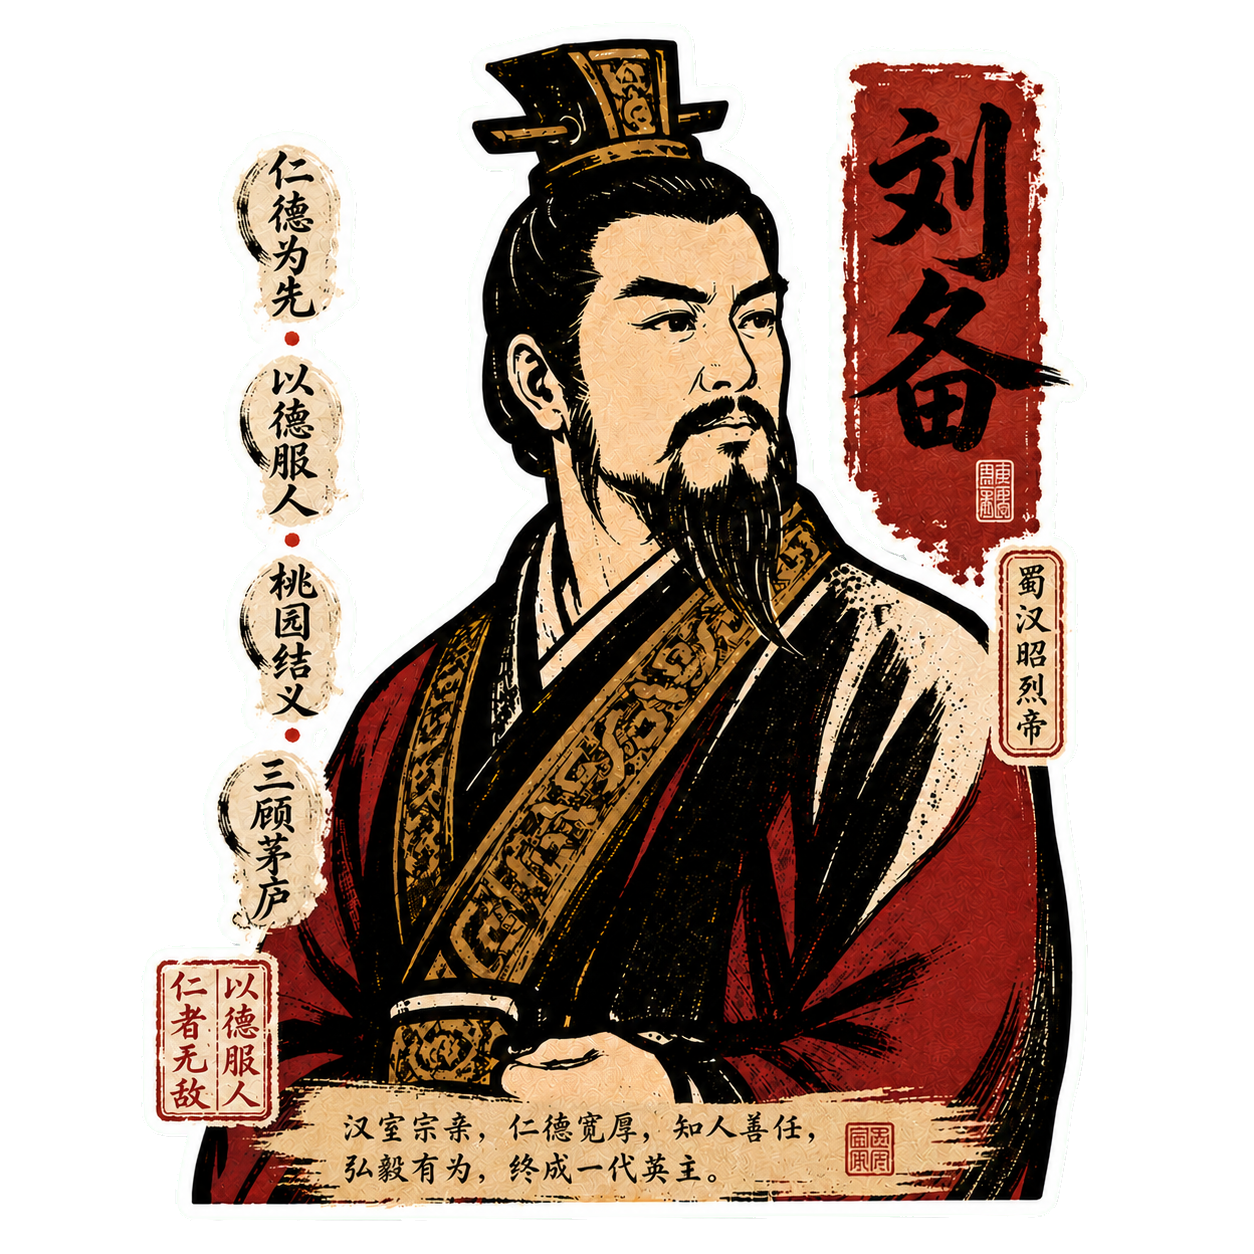
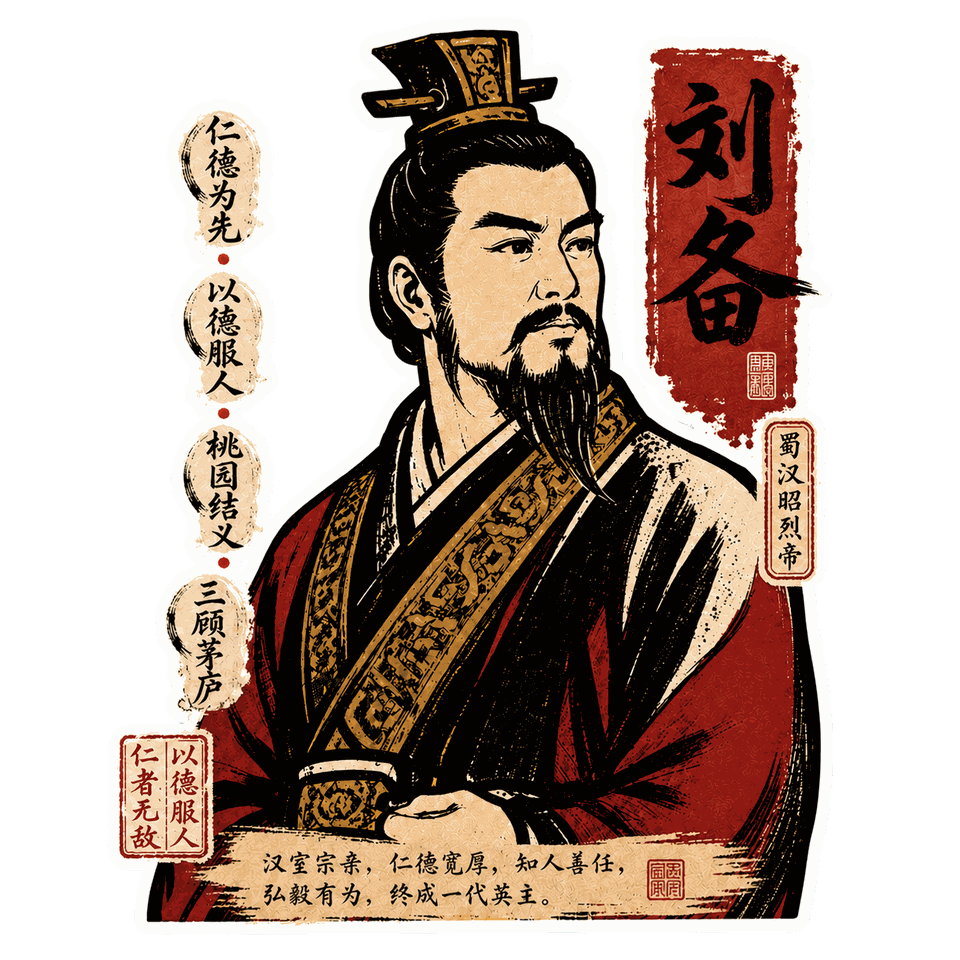
release: publish LifeTrace to ClawHub

diff --git a/README.md b/README.md
@@ -2,7 +2,10 @@
 
 基于高德开放平台的人物一生足迹地图 Skill。它把人物经历整理为可追溯的“时间—地点—事件—来源—可信度”数据，在真实高德地图上播放动态路线，并用统一画廊展示人物形象与核心故事图。
 
-GitHub：<https://github.com/LucianaiB2004/life-trace-amap>
+发布地址：
+
+- GitHub：<https://github.com/LucianaiB2004/life-trace-amap>
+- ClawHub：<https://clawhub.ai/lucianaib2004/skills/life-trace>
 
 ## 功能
 
@@ -42,16 +45,6 @@ node life-trace.mjs serve demo.html
 ```powershell
 node --test test.mjs
 ```
-
-## ClawHub 发布
-
-先进行不上传的发布校验：
-
-```powershell
-clawhub skill publish ./life-trace --slug life-trace --name "人生经纬 · LifeTrace" --version 1.0.0 --changelog "Initial release" --dry-run
-```
-
-校验通过后登录 ClawHub，去掉 `--dry-run` 即可发布。ClawHub 发布内容采用 MIT-0 许可，详见本仓库 [`LICENSE`](LICENSE)。
 
 ## 隐私与安全
 